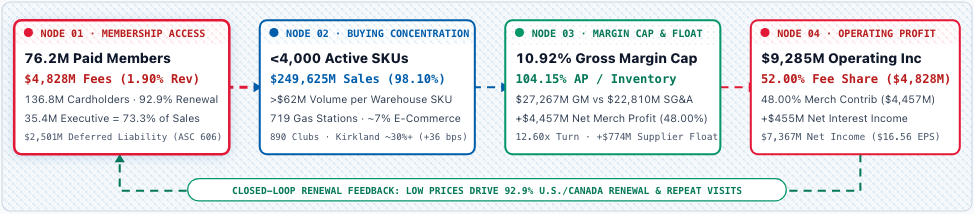
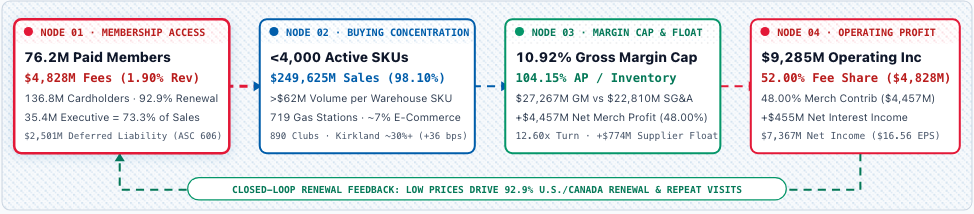
Reconcile Stage 4 tester refinements on main and pass all verification suites (20261104T004059-606-j6a7)

diff --git a/index.html b/index.html
@@ -1123,8 +1123,15 @@
 
     .polar-details-column .corp-table th,
     .polar-details-column .corp-table td {
-      padding: 8px 6px;
+      padding: 8px 10px;
       line-height: 1.38;
+    }
+
+    @media (max-width: 1120px) {
+      .polar-details-column .corp-table th,
+      .polar-details-column .corp-table td {
+        padding: 8px 6px;
+      }
     }
 
     .polar-details-column .corp-table th {
@@ -1819,7 +1826,6 @@
     html.animations-paused .polar-radar-sweep,
     html.animations-paused .polar-sweep-indicator,
     html.animations-paused .polar-active-arc {
-      animation: none !important;
       animation-play-state: paused !important;
       transition: none !important;
     }
@@ -2018,6 +2024,17 @@
         <a href="#section-five-steps" class="nav-chip">5-Step Revenue Model</a>
         <a href="#section-gaap-model" class="nav-chip">GAAP Waterfall &amp; Simulator</a>
         <a href="#section-wayfinder-audit" class="nav-chip">Wayfinder &amp; 10-K Audit</a>
+        <button
+          type="button"
+          id="motion-toggle-btn"
+          class="motion-toggle-btn"
+          data-motion-toggle
+          aria-pressed="false"
+          aria-label="Pause corporate SVG animations"
+        >
+          <span class="motion-status-dot" aria-hidden="true"></span>
+          <span data-motion-label>Pause Animations</span>
+        </button>
       </nav>
     </div>
   </header>
@@ -2191,6 +2208,13 @@
             Operating Income ($9,285M) = Net Merchandise Profit ($4,457M, or 48.00%) + Membership Fees ($4,828M, or 52.00%)
           </div>
         </div>
+
+        <aside class="plain-english-note" aria-label="Plain-English Summary of Costco's Business Model">
+          <div class="note-eyebrow">In Plain English · How the Two Revenue Streams Work Together</div>
+          <p class="note-body">
+            Unlike traditional supermarkets and department stores that mark up merchandise by <strong>25% to 40%</strong>, Costco collects money in two ways: <strong>Net Sales ($249,625M, or 98.10% of total revenue)</strong> from goods and services sold at 890 warehouses and online, and <strong>Membership Fees ($4,828M, or 1.90% of total revenue)</strong> paid once a year by <strong>76.2 million members</strong>. Because Costco caps its merchandise gross margin at <strong>10.92% ($27,267M)</strong>, warehouse sales pay for <strong>100% of operating overhead ($22,810M SG&amp;A, or 9.14% of sales)</strong> and still leave <strong>$4,457M in net merchandise profit (48.00% of operating income)</strong>. That allows all <strong>$4,828M of annual membership fees to account for 52.00% of Costco's $9,285M operating income</strong>, resulting in <strong>$7,367M in bottom-line net income</strong>.
+          </p>
+        </aside>
 
         <!-- Corporate Animated SVG Hero Schematic: 4-Node Revenue-to-Profit Flywheel -->
         <div class="flywheel-hero-stage" role="region" aria-label="Animated Corporate Revenue-to-Profit Flywheel Schematic">
@@ -4135,20 +4159,25 @@
        ========================================================================= */
     var currentStep = 1;
     var isMotionPaused = false;
-    var motionControlBound = false;
+    var motionControlInitialized = false;
+    var reducedMotionMq = null;
 
     function setMotionPaused(paused) {
       isMotionPaused = Boolean(paused);
       document.documentElement.classList.toggle("is-motion-paused", isMotionPaused);
       document.documentElement.classList.toggle("animations-paused", isMotionPaused);
-      var btns = document.querySelectorAll("[data-motion-toggle]");
+      if (document.body) {
+        document.body.classList.toggle("is-motion-paused", isMotionPaused);
+        document.body.classList.toggle("animations-paused", isMotionPaused);
+      }
+      var btns = document.querySelectorAll("[data-motion-toggle], #motion-toggle-btn");
       for (var b = 0; b < btns.length; b++) {
         var btn = btns[b];
         btn.setAttribute("aria-pressed", isMotionPaused ? "true" : "false");
         btn.setAttribute("aria-label", isMotionPaused ? "Play corporate SVG animations" : "Pause corporate SVG animations");
         var labelEl = btn.querySelector("[data-motion-label]");
         if (labelEl) {
-          labelEl.textContent = isMotionPaused ? "Resume Animations" : "Pause Animations";
+          labelEl.textContent = isMotionPaused ? "Play Animations" : "Pause Animations";
         }
       }
       var allSvgs = document.querySelectorAll("svg");
@@ -4162,14 +4191,47 @@
       return isMotionPaused;
     }
 
-    var motionControlInitialized = false;
+    function toggleAnimationPlayback() {
+      return setMotionPaused(!isMotionPaused);
+    }
+
+    function decoratePolarSvgAnimations() {
+      var polarIds = ["svg-polar-categories", "svg-polar-geography", "svg-polar-flywheel"];
+      for (var i = 0; i < polarIds.length; i++) {
+        var svgEl = document.getElementById(polarIds[i]);
+        if (!svgEl) continue;
+        svgEl.classList.add("svg-animated-flow");
+        if (isMotionPaused && typeof svgEl.pauseAnimations === "function") {
+          svgEl.pauseAnimations();
+        } else if (!isMotionPaused && typeof svgEl.unpauseAnimations === "function") {
+          svgEl.unpauseAnimations();
+        }
+      }
+    }
+
     function initMotionControl() {
       if (motionControlInitialized) return;
       motionControlInitialized = true;
-      var btns = document.querySelectorAll("[data-motion-toggle]");
+      var btns = document.querySelectorAll("[data-motion-toggle], #motion-toggle-btn");
       for (var b = 0; b < btns.length; b++) {
         btns[b].addEventListener("click", function () {
-          setMotionPaused(!isMotionPaused);
+          toggleAnimationPlayback();
+        });
+      }
+      var heroNodes = document.querySelectorAll("#svg-corporate-flywheel-hero [data-flywheel-node]");
+      for (var i = 0; i < heroNodes.length; i++) {
+        heroNodes[i].addEventListener("click", function () {
+          var nodeNum = Number(this.getAttribute("data-flywheel-node"));
+          var targetStep = nodeNum === 1 ? 1 : nodeNum === 2 ? 2 : nodeNum === 3 ? 4 : 5;
+          setActiveStep(targetStep, false);
+        });
+        heroNodes[i].addEventListener("keydown", function (evt) {
+          if (evt.key === "Enter" || evt.key === " " || evt.key === "Spacebar") {
+            evt.preventDefault();
+            var nodeNum = Number(this.getAttribute("data-flywheel-node"));
+            var targetStep = nodeNum === 1 ? 1 : nodeNum === 2 ? 2 : nodeNum === 3 ? 4 : 5;
+            setActiveStep(targetStep, false);
+          }
         });
       }
       if (window.matchMedia) {
@@ -4188,24 +4250,29 @@
       }
     }
 
-    function decoratePolarSvgAnimations() {
-      var polarIds = ["svg-polar-categories", "svg-polar-geography", "svg-polar-flywheel"];
-      for (var i = 0; i < polarIds.length; i++) {
-        var svgEl = document.getElementById(polarIds[i]);
-        if (svgEl) {
-          svgEl.classList.add("svg-animated-flow");
-        }
-      }
-    }
-
     function syncAnimatedFlywheelHighlight(stepNum) {
       var mappedNode = stepNum === 1 ? 1 : (stepNum === 2 || stepNum === 3) ? 2 : stepNum === 4 ? 3 : 4;
       var heroNodes = document.querySelectorAll("[data-hero-node]");
       for (var i = 0; i < heroNodes.length; i++) {
         var nId = Number(heroNodes[i].getAttribute("data-hero-node"));
-        var isMatch = nId === mappedNode;
-        heroNodes[i].classList.toggle("is-step-linked", isMatch);
-        heroNodes[i].classList.toggle("is-active-node", isMatch);
+        var isNodeActive = nId === mappedNode;
+        heroNodes[i].classList.toggle("is-step-linked", isNodeActive);
+        heroNodes[i].classList.toggle("is-active-node", isNodeActive);
+      }
+      var heroFlows = document.querySelectorAll("[data-hero-flow]");
+      for (var f = 0; f < heroFlows.length; f++) {
+        var fId = Number(heroFlows[f].getAttribute("data-hero-flow"));
+        heroFlows[f].classList.toggle("is-active-flow", fId === mappedNode);
+      }
+      var statusEl = document.getElementById("flywheel-hero-status");
+      if (statusEl) {
+        var nodeLabels = {
+          1: "Node 01 Active: Paid Membership Base ($4,828M · 98.10% Sales Catalyst)",
+          2: "Node 02 Active: Structural Price Cap (10.92% Gross Margin · 104.15% AP Float)",
+          3: "Node 03 Active: Net Merchandise Profit ($4,457M · 48.00% of Operating Income)",
+          4: "Node 04 Active: Consolidated Operating Profit ($9,285M OpInc · $7,367M Net Income)"
+        };
+        statusEl.textContent = nodeLabels[mappedNode] || nodeLabels[1];
       }
     }
 
@@ -4238,13 +4305,6 @@
         if (targetEl && typeof targetEl.scrollIntoView === "function") {
           targetEl.scrollIntoView({ behavior: "smooth", block: "nearest" });
         }
-      }
-    }
-
-    function decoratePolarSvgAnimations() {
-      var polarSvgs = document.querySelectorAll("#svg-polar-categories, #svg-polar-geography, #svg-polar-flywheel");
-      for (var i = 0; i < polarSvgs.length; i++) {
-        polarSvgs[i].classList.add("svg-animated-flow");
       }
     }
 
